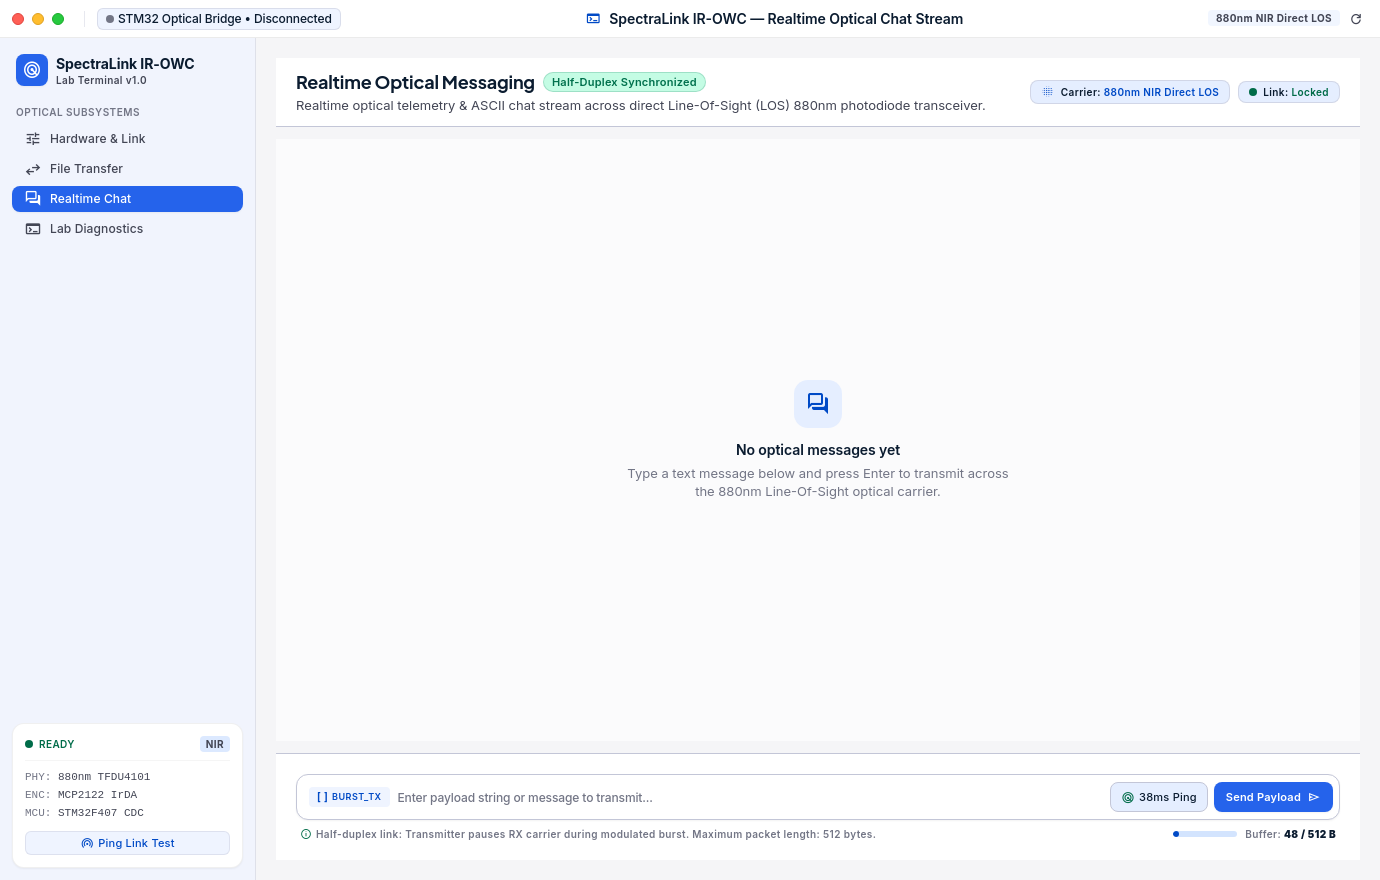
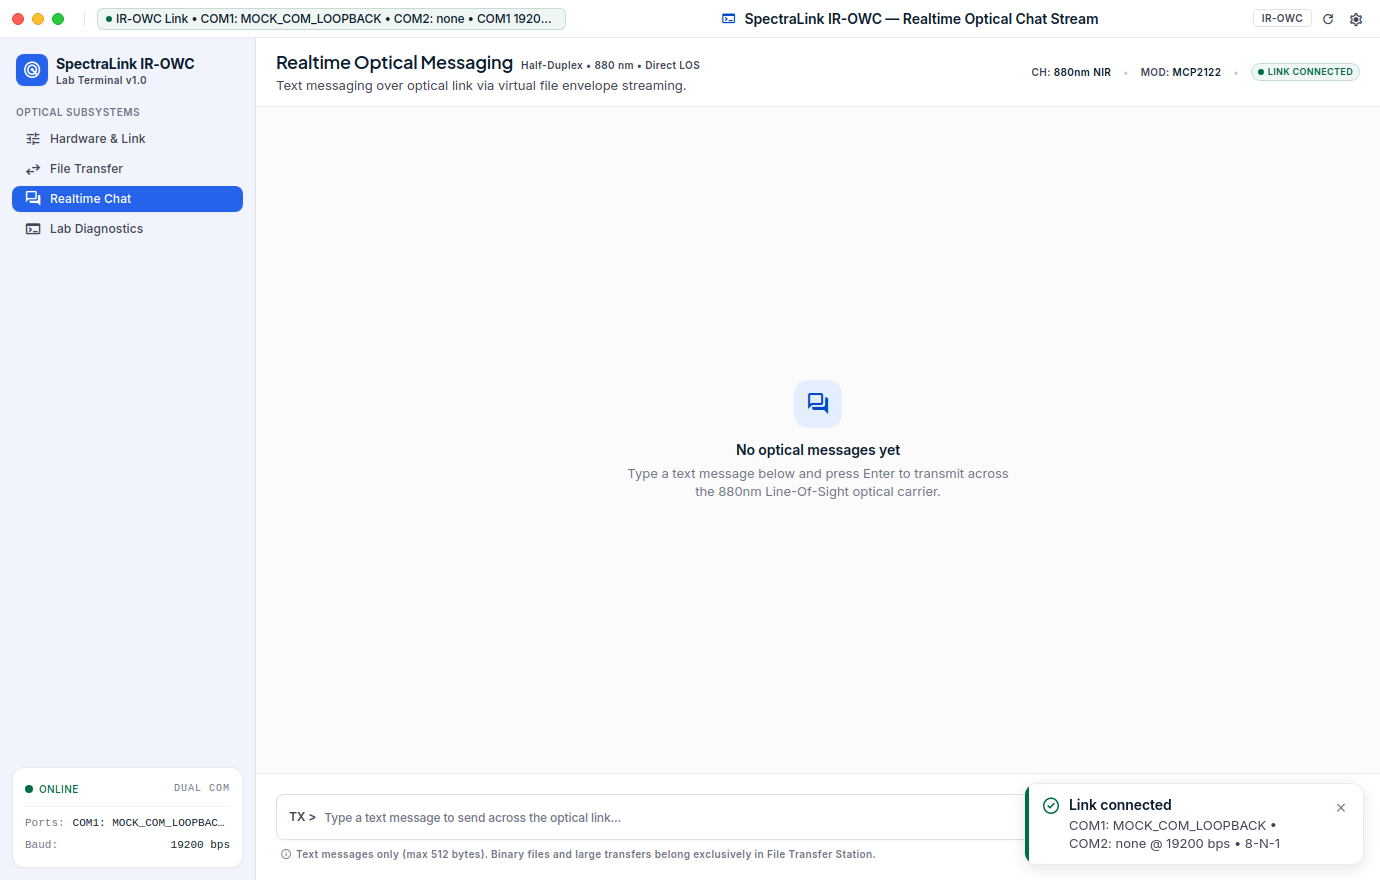
fix(ui): close unclosed split-grid container in view_file.html to restore chat & telemetry views

diff --git a/src/ir_terminal/ui/web/index.html b/src/ir_terminal/ui/web/index.html
@@ -636,6 +636,7 @@
 <span>Optical carrier 880 nm</span>
 </div>
 </div>
+</div>
 
         </div>
 

diff --git a/src/ir_terminal/ui/web/components/view_file.html b/src/ir_terminal/ui/web/components/view_file.html
@@ -166,3 +166,4 @@
 <span>Optical carrier 880 nm</span>
 </div>
 </div>
+</div>

diff --git a/scripts/capture_all_screens.py b/scripts/capture_all_screens.py
@@ -1,7 +1,6 @@
 """Captures high-resolution pixel-perfect screenshots of all 4 views with live active states."""
 
 import os
-import tempfile
 import time
 
 os.environ["QTWEBENGINE_DISABLE_SANDBOX"] = "1"
@@ -34,49 +33,29 @@ def capture_all() -> None:
     pixmap1.save("docs/screenshots/1_hardware_setup.png", "PNG")
     print("Captured 1_hardware_setup.png")
 
+    # 2. File Transfer
     window.web_view.page().runJavaScript("window.switchView('view-file');")
-    for _ in range(10):
+    for _ in range(15):
         app.processEvents()
         time.sleep(0.05)
+    pixmap2 = window.grab()
+    pixmap2.save("docs/screenshots/2_file_transfer.png", "PNG")
+    print("Captured 2_file_transfer.png")
 
-    with tempfile.NamedTemporaryFile(
-        suffix=".pdf", prefix="telemetry_report_", delete=False
-    ) as tmp:
-        tmp.write(b"INFRARED_OPTICAL_WIRELESS_COMMUNICATION_FRAME_DATA_" * 160)
-        tmp_path = tmp.name
-
-    try:
-        window.bridge.startFileTransfer(tmp_path)
-        for _ in range(35):
-            app.processEvents()
-            time.sleep(0.05)
-
-        pixmap2 = window.grab()
-        pixmap2.save("docs/screenshots/2_file_transfer.png", "PNG")
-        print("Captured 2_file_transfer.png")
-    finally:
-        if os.path.exists(tmp_path):
-            os.unlink(tmp_path)
-
+    # 3. Realtime Chat
     window.web_view.page().runJavaScript("window.switchView('view-chat');")
-    for _ in range(10):
+    for _ in range(15):
         app.processEvents()
         time.sleep(0.05)
-
-    window.bridge.sendChat("SpectraLink Optical Link 880nm NIR Verified (BER < 10^-9)!")
-    for _ in range(25):
-        app.processEvents()
-        time.sleep(0.05)
-
     pixmap3 = window.grab()
     pixmap3.save("docs/screenshots/3_realtime_chat.png", "PNG")
     print("Captured 3_realtime_chat.png")
 
+    # 4. Lab Telemetry
     window.web_view.page().runJavaScript("window.switchView('view-telemetry');")
     for _ in range(15):
         app.processEvents()
         time.sleep(0.05)
-
     pixmap4 = window.grab()
     pixmap4.save("docs/screenshots/4_lab_telemetry.png", "PNG")
     print("Captured 4_lab_telemetry.png")
